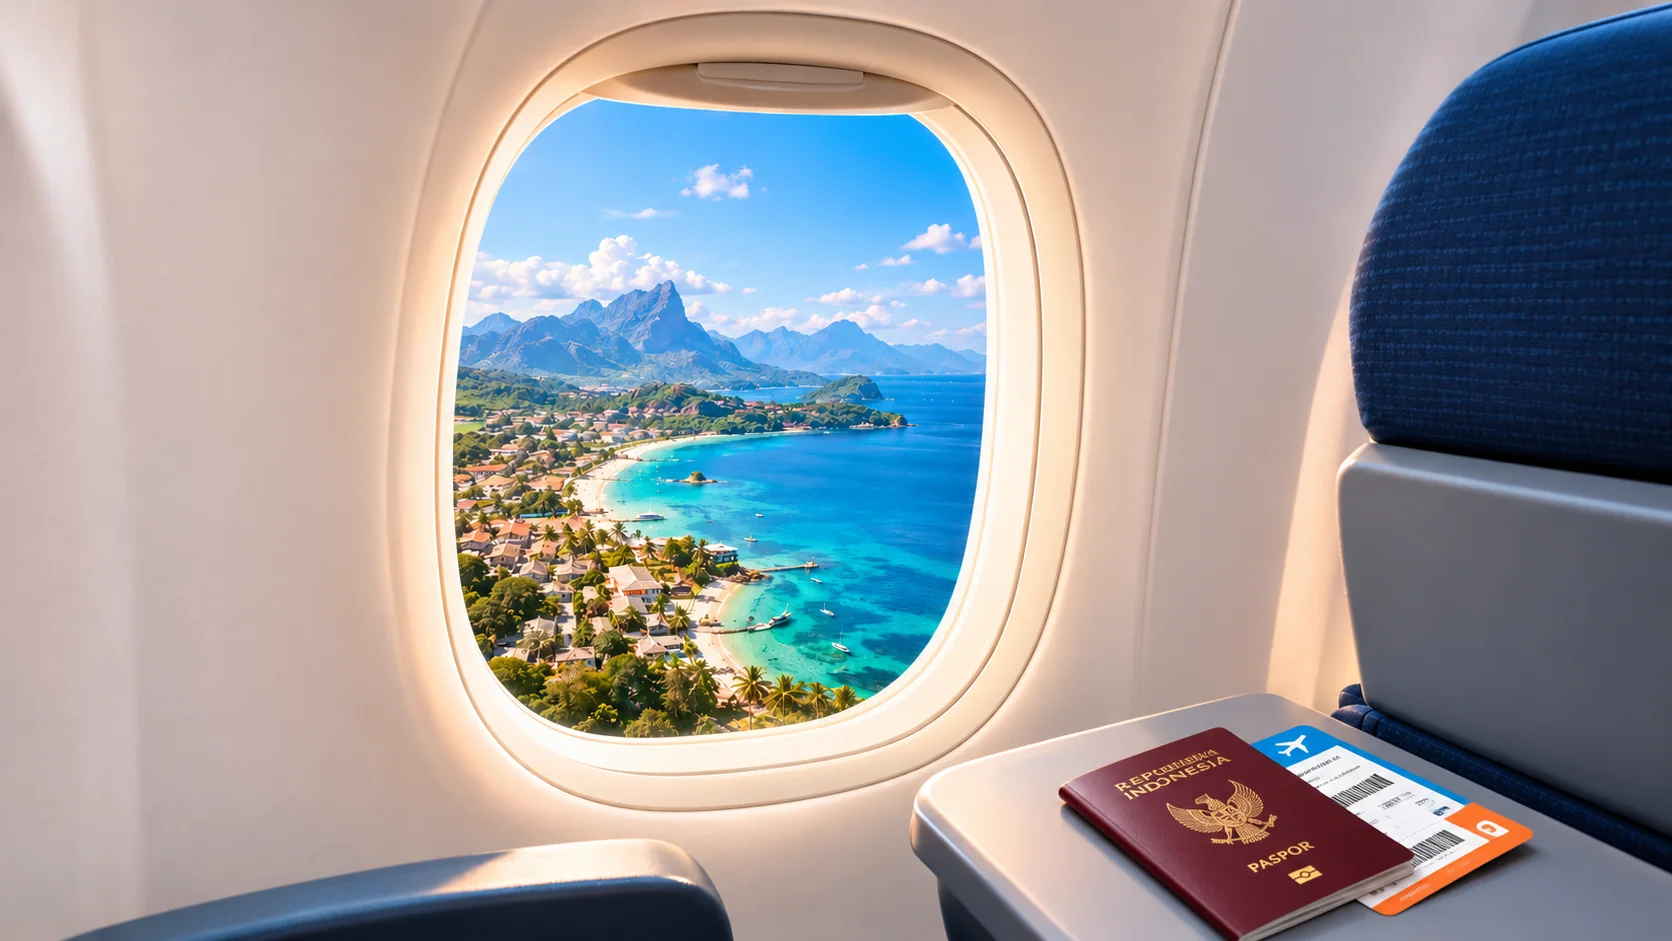
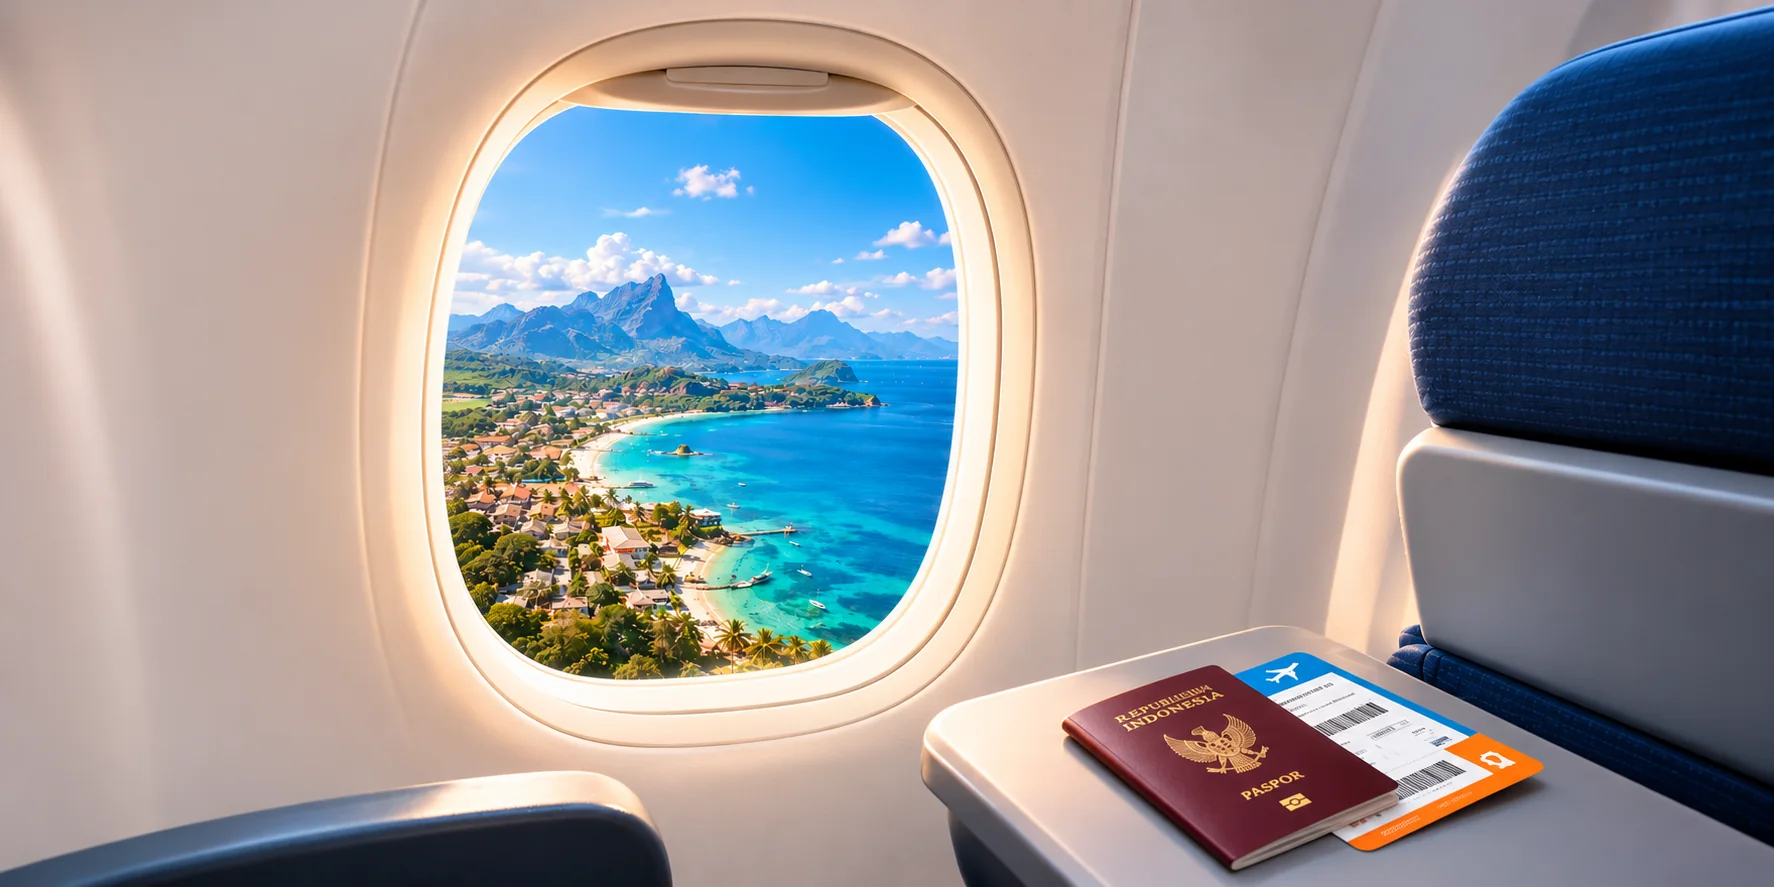
fix(beranda): foto hero baru, dan gelembung yang benar-benar timbul
Tiga hal yang masih berbeda dari rancangan final.

1. FOTO HERO diganti dengan potongan yang lebih lebar (1774x887). Pada
   potongan lama, meja berisi paspor dan boarding pass jatuh tepat di
   tepi bawah; dengan yang baru ia duduk di sudut kanan bawah dan
   setengahnya tertutup panel — persis acuan.

2. FOTO MASIH TERLIHAT DI SAMPING PANEL. Bantalan bawah hero dilebihkan
   sehingga selisihnya terhadap angkat panel kira-kira 6rem: itulah
   seberapa jauh foto masih menyembul di sebelah kanan panel. Sudut bawah
   hero dibulatkan besar; yang terlihat hanya sudut kanannya, karena sisi
   kiri tertutup panel dan di bawah panel warnanya krem di atas krem.

3. GELEMBUNG "TUJUAN BERIKUTNYA" kini benar-benar TIMBUL, bukan kotak
   bersudut tumpul:
   - jari-jarinya hampir seperempat lebar kartu, jadi terbaca sebagai
     bantal;
   - permukaannya tidak rata — lebih terang di kiri-atas, meredup ke
     kanan-bawah, seperti benda yang kena cahaya dari satu arah;
   - empat lapis bayangan sekaligus: jatuh besar, jatuh rapat, garis
     cahaya di tepi atas, dan bayangan dalam di tepi bawah;
   - kotak ikonnya ikut timbul, satu tingkat lebih terang daripada
     kartunya, berisi pesawat tampak atas yang dimiringkan — bukan
     pesawat kertas;
   - labelnya abu-abu HANGAT; abu kebiruan terbaca sumbang di atas krem.

diff --git a/resources/css/new-homepage.css b/resources/css/new-homepage.css
@@ -547,6 +547,10 @@ h6,
     isolation: isolate;
     overflow: hidden;
     background: var(--color-orcha-sand);
+    /* Sudut bawahnya membulat BESAR. Yang terlihat hanya sudut kanan —
+       sisi kirinya tertutup panel yang naik menindih, dan di bawah panel
+       warnanya krem di atas krem. */
+    border-radius: 0 0 clamp(2rem, 3.5vw, 3.5rem) clamp(2rem, 3.5vw, 3.5rem);
 }
 
 .hero-kabin-media {
@@ -605,7 +609,10 @@ h6,
 }
 
 .hero-kabin-isi {
-    padding-block: clamp(7rem, 11vw, 10.5rem) clamp(6rem, 11vw, 11rem);
+    /* Bantalan bawahnya dilebihkan: selisihnya dengan angkat panel di bawah
+       inilah yang menentukan seberapa jauh foto masih terlihat di samping
+       panel. Pada rancangan acuan kira-kira 6rem. */
+    padding-block: clamp(7rem, 11vw, 10.5rem) clamp(7rem, 13vw, 13rem);
 }
 
 /* Panel pertama naik menindih hero. Angkanya LEBIH KECIL daripada bantalan
@@ -613,6 +620,8 @@ h6,
    paling bawah ikut tertutup. */
 .rak-panel {
     margin-top: clamp(-7rem, -7vw, -4rem);
+    position: relative;
+    z-index: 1;
 }
 
 /* Gelembung "Tujuan berikutnya" — persegi membulat yang tampak timbul,
@@ -621,14 +630,30 @@ h6,
     position: absolute;
     top: clamp(6.5rem, 9vw, 8.5rem);
     right: clamp(1.25rem, 3.5vw, 3.5rem);
-    width: clamp(11rem, 14vw, 13.5rem);
-    padding: 1.05rem 1.1rem 0.85rem;
-    border-radius: 1.75rem;
-    background: #fbf8f3;
+    width: clamp(11.5rem, 14vw, 14rem);
+    padding: clamp(1.05rem, 1.4vw, 1.45rem);
+    /* Jari-jarinya hampir seperempat lebar kartu — itu yang membuatnya
+       terbaca sebagai bantal, bukan sebagai kotak bersudut tumpul. */
+    border-radius: clamp(1.75rem, 2.6vw, 2.6rem);
+    /* Permukaannya TIDAK rata: lebih terang di kiri-atas, meredup ke
+       kanan-bawah, seperti benda yang kena cahaya dari satu arah. */
+    background: linear-gradient(145deg, #fdfaf6 0%, #f5eee4 58%, #eae1d5 100%);
     box-shadow:
-        0 34px 60px -30px rgb(40 28 18 / 0.45),
-        0 10px 20px -12px rgb(40 28 18 / 0.25),
-        inset 0 2px 0 rgb(255 255 255 / 0.95);
+        0 40px 70px -28px rgb(40 28 18 / 0.5),
+        0 14px 26px -14px rgb(40 28 18 / 0.28),
+        inset 0 2px 1px rgb(255 255 255 / 0.95),
+        inset 0 -16px 24px -18px rgb(120 95 70 / 0.4);
+}
+
+/* Kotak ikonnya ikut timbul, satu tingkat lebih terang daripada kartunya. */
+.hero-kabin-kartu .gelembung-ikon {
+    width: clamp(2.7rem, 3.4vw, 3.3rem);
+    height: clamp(2.7rem, 3.4vw, 3.3rem);
+    border-radius: clamp(0.9rem, 1.1vw, 1.1rem);
+    background: linear-gradient(160deg, #fffdfa, #f7f1e8);
+    box-shadow:
+        0 10px 16px -10px rgb(60 40 25 / 0.45),
+        inset 0 1px 0 rgb(255 255 255 / 0.95);
 }
 
 /*

diff --git a/resources/views/livewire/public/beranda/index.blade.php b/resources/views/livewire/public/beranda/index.blade.php
@@ -292,14 +292,16 @@ new #[Layout('components.layouts.guest')] #[Title('Orcha Journey — Open Trip, 
                  sempit: di sana fotonya sendiri sudah kecil, dan gelembungnya
                  menutupi jendela yang justru jadi isi fotonya. --}}
             <div class="hero-kabin-kartu">
+                {{-- Pesawat tampak atas yang dimiringkan, bukan pesawat kertas:
+                     itu bentuk ikon pada rancangan acuan. --}}
                 <span class="gelembung-ikon">
-                    <x-heroicon-s-paper-airplane class="w-5 h-5" />
+                    <x-bi-airplane-fill class="w-5 h-5 rotate-45" />
                 </span>
-                <span class="block mt-3.5 text-sm text-slate-400">Tujuan berikutnya</span>
-                <span class="block mt-1 text-lg font-extrabold leading-tight font-heading text-orcha-navy">
+                <span class="block mt-4 text-sm text-[#9a9289]">Tujuan berikutnya</span>
+                <span class="block mt-0.5 text-[1.15rem] font-extrabold leading-[1.15] font-heading text-orcha-navy">
                     Pengalaman yang Lebih Baik
                 </span>
-                <span class="flex justify-end mt-2 text-orcha-navy">
+                <span class="flex justify-end mt-3 text-orcha-navy">
                     <x-heroicon-o-arrow-right class="w-5 h-5" />
                 </span>
             </div>
